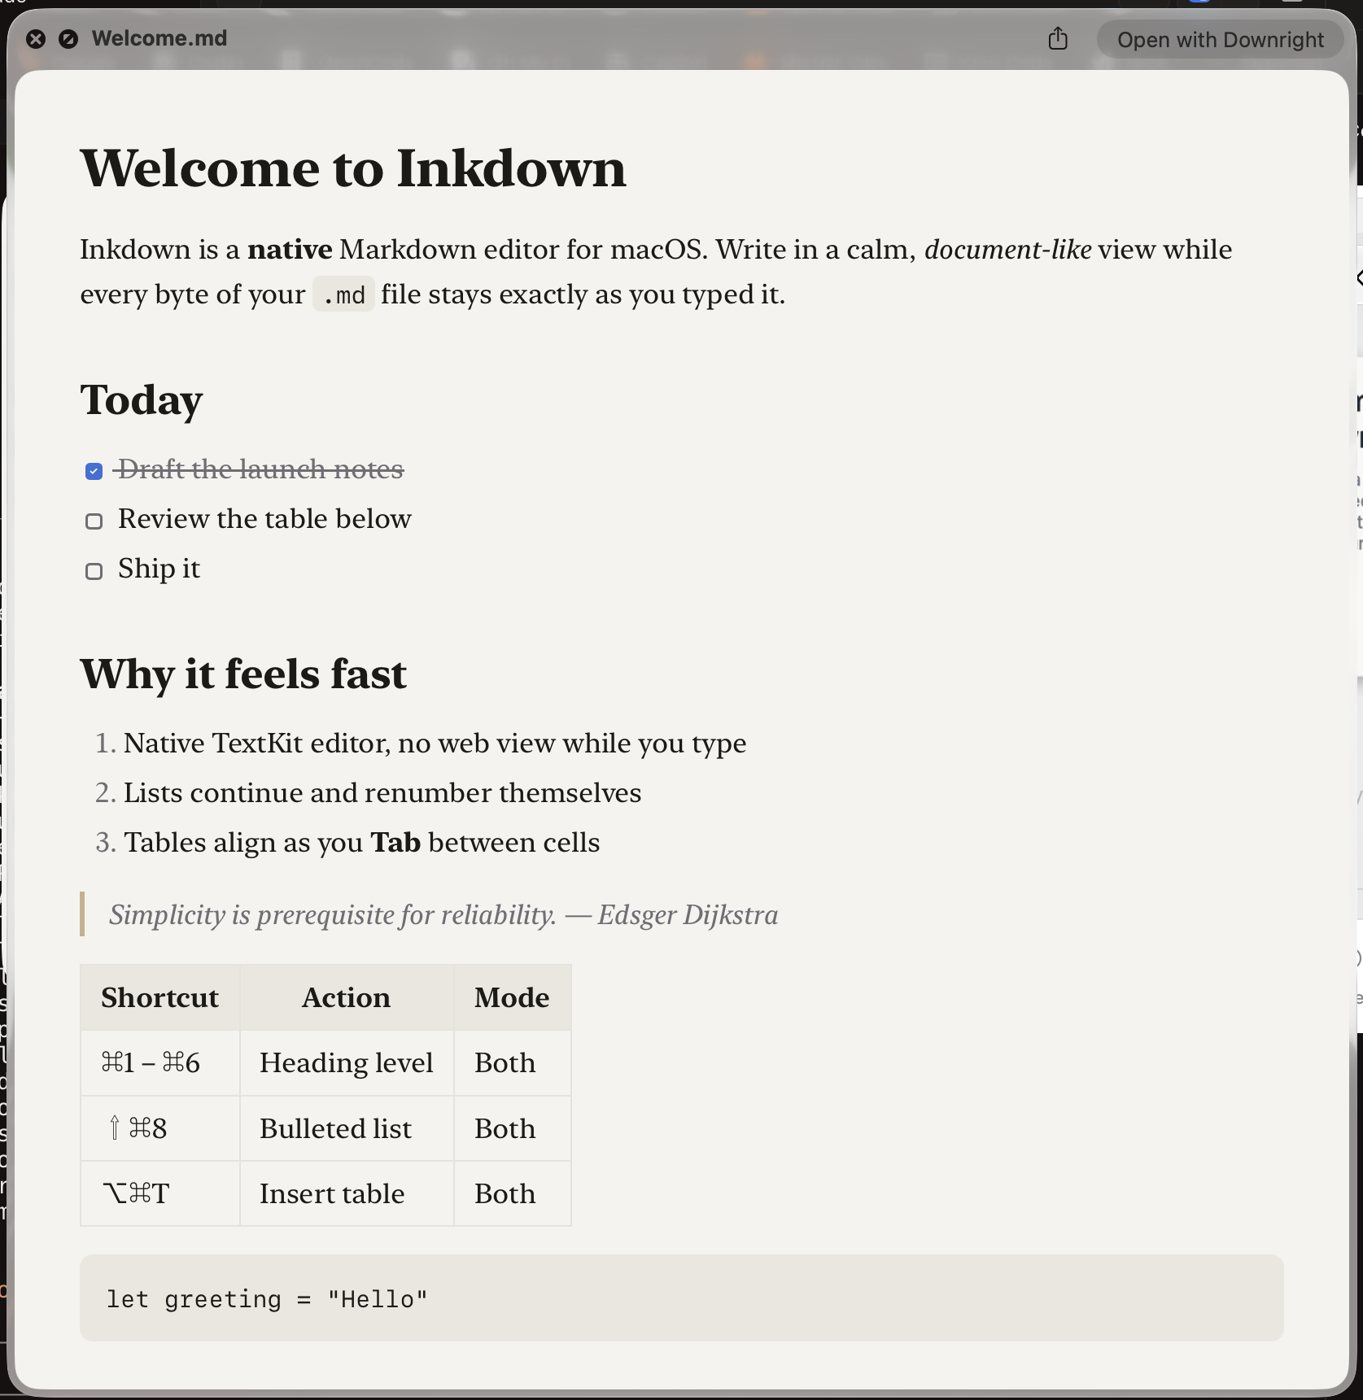
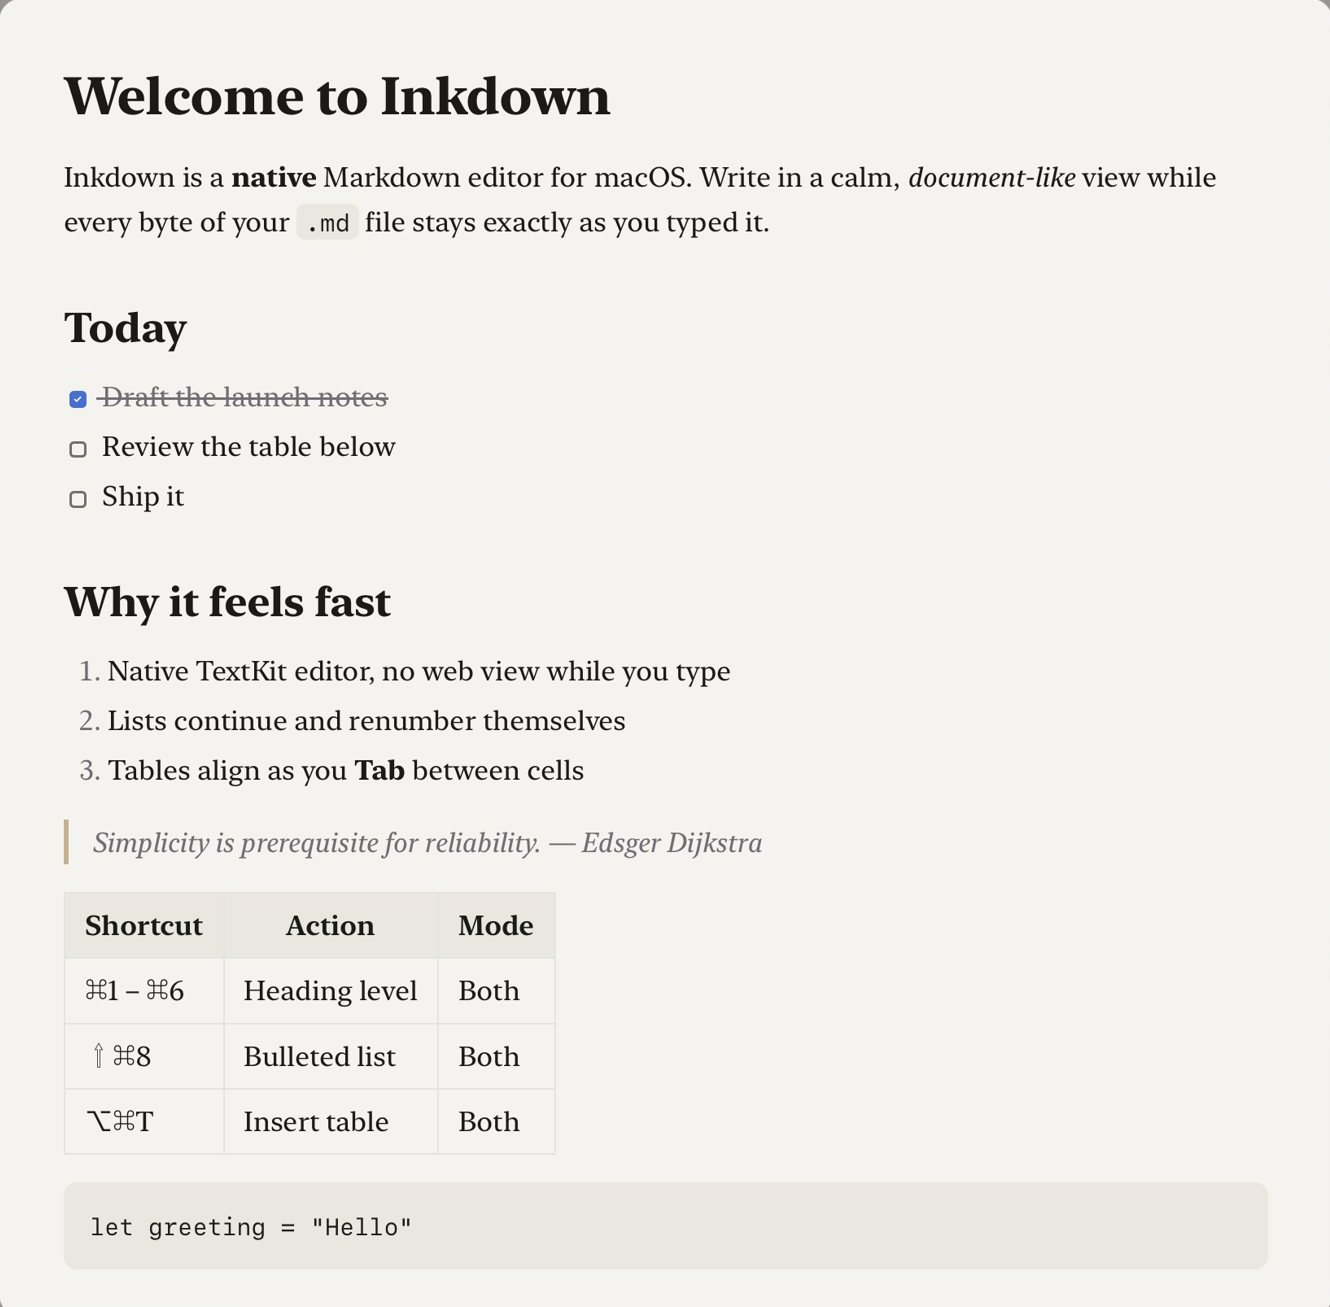
Add privacy policy page, App Store docs and 1.0.1 release notes

diff --git a/docs/privacy.html b/docs/privacy.html
@@ -1,0 +1,20 @@
+<!doctype html>
+<html lang="en"><head><meta charset="utf-8"><meta name="viewport" content="width=device-width,initial-scale=1">
+<title>Inkdown Privacy Policy</title><link rel="icon" href="assets/icon.png">
+<style>:root{--bg:#F5F3EF;--ink:#1C1A17;--muted:#6F6A63}@media (prefers-color-scheme:dark){:root{--bg:#1E1D1C;--ink:#E8E3DB;--muted:#A39D94}}
+html{background:var(--bg);color:var(--ink)}body{margin:0;font:17px/1.7 ui-serif,"New York",Georgia,serif}main{max-width:680px;margin:0 auto;padding:64px 16px}
+h1{font-size:40px;line-height:1.15;margin:0 0 8px}p.m{color:var(--muted);margin-top:0}a{color:#3A6FD8}</style></head>
+<body><main>
+<p><a href="./">← Inkdown</a></p>
+<h1>Privacy Policy</h1>
+<p class="m">Last updated October 18, 2026</p>
+<p><strong>Inkdown collects no data.</strong> It has no accounts, analytics, advertising, tracking or crash reporting, and it never sends your documents anywhere.</p>
+<h2>Your files</h2>
+<p>Inkdown reads and writes only the Markdown files and folders you open or explicitly grant access to. Everything stays on your Mac (or wherever you keep those files, such as iCloud Drive).</p>
+<h2>Settings</h2>
+<p>Preferences such as theme, text size and the folders you've allowed are stored locally in the app's macOS sandbox container.</p>
+<h2>Network</h2>
+<p>Inkdown makes no network requests. The preview uses Apple's WebKit, which is why the app declares a network entitlement. Remote images in your own documents may load when you open the preview, just as they would in any Markdown viewer.</p>
+<h2>Contact</h2>
+<p>Questions? <a href="https://github.com/tapariapurv/inkdown/issues">Open an issue on GitHub</a>.</p>
+</main></body></html>

diff --git a/docs/index.html b/docs/index.html
@@ -209,7 +209,7 @@ header.scrolled{box-shadow:0 8px 24px -16px rgba(40,30,15,.35)}
 </div></section>
 </main>
 
-<footer><div class="wrap">Inkdown · MIT licensed · <a href="https://github.com/tapariapurv/inkdown">Source on GitHub</a></div></footer>
+<footer><div class="wrap">Inkdown · MIT licensed · <a href="https://github.com/tapariapurv/inkdown">Source on GitHub</a> · <a href="privacy.html">Privacy</a></div></footer>
 
 <script>
 const reduce = matchMedia('(prefers-reduced-motion: reduce)').matches;

diff --git a/release-notes/v1.0.1.md b/release-notes/v1.0.1.md
@@ -1,0 +1,20 @@
+**Inkdown 1.0.1** makes Inkdown sandboxed and Mac App Store ready, with no change to how you write.
+
+## Install / update
+
+```sh
+curl -fsSL https://tapariapurv.github.io/inkdown/install.sh | bash
+```
+
+Or download **Inkdown.dmg** below and drag Inkdown into Applications. The build isn't notarized, so on first launch go to **System Settings › Privacy & Security › Open Anyway**.
+
+## What's new
+- 🔒 **App Sandbox.** Inkdown can now only touch the files and folders you open or allow, which is the same protection Mac App Store apps get.
+- 📂 **One-click folder access.** The Files sidebar asks once ("Allow Access…") to list a folder's other Markdown files. Inkdown remembers that choice across launches and uses it to open relative links, create new files and show local images in the preview.
+- 🖼 **More reliable preview images.** Local images are served to the preview through a private `inkdown-file://` scheme instead of broad disk access.
+- 🛡 **Privacy manifest.** Inkdown declares that it collects no data and does no tracking. The privacy policy is at https://tapariapurv.github.io/inkdown/privacy.html.
+- 💻 **Universal build** for Apple silicon and Intel.
+
+## Notes
+- Your settings start fresh after this update, because sandboxed apps keep preferences in their own container.
+- Everything from 1.0 is unchanged: Document and Source modes, smart lists and tables, the live preview, and the Quick Look extension.

diff --git a/README.md b/README.md
@@ -86,6 +86,10 @@ pluginkit -e use -i com.purvt.InkdownQuickLook
 qlmanage -r
 ```
 
+## Mac App Store
+
+Inkdown runs in the App Sandbox and includes a privacy manifest (no data collected). The App Store listing (metadata, keywords, captioned screenshots, review notes) is in [`appstore/`](appstore/), along with [`scripts/appstore.sh`](scripts/appstore.sh) for archiving and uploading. Submitting requires a paid Apple Developer Program membership; see [appstore/README.md](appstore/README.md).
+
 ## Tests
 
 The editing rules (lists, renumbering, tables, toggles, code fences) are pure functions with a runnable self-check:
